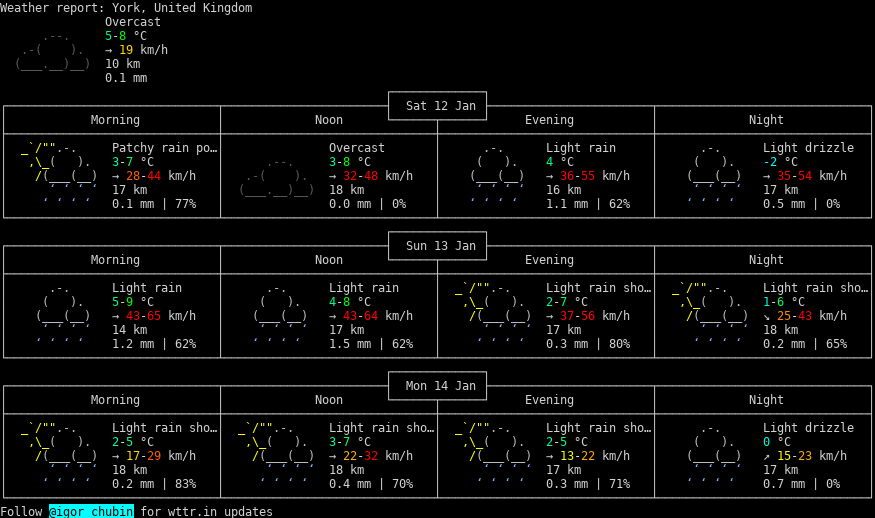
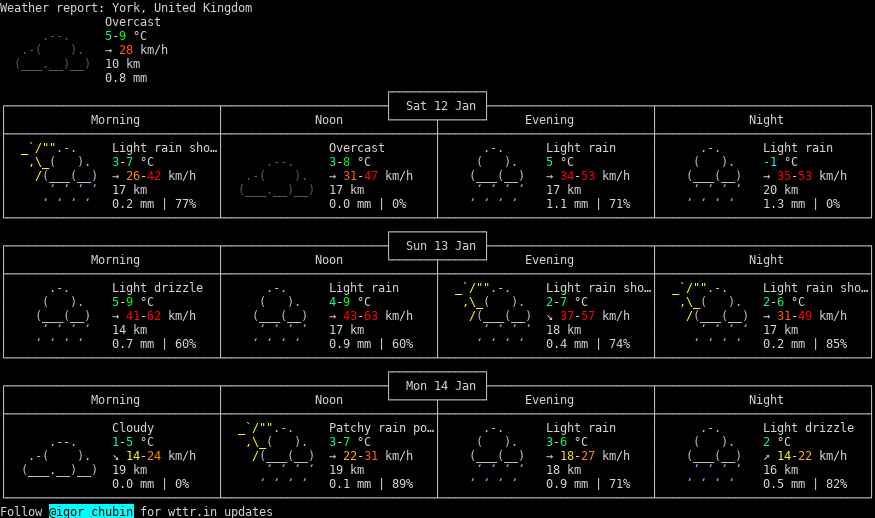
update Today's log:)

diff --git a/README.md b/README.md
@@ -258,3 +258,4 @@ Shell_scripting fun example during Linux OS class with my students
 * 11-01-2019 Fri AM 12:00 GMT   : 7-8°C (Scarborough, United Kingdom)
 * 11-01-2019 Fri PM 12:00 GMT   : -3-1°C ()
 * 12-01-2019 Sat AM 12:00 GMT   : 5-7°C (Scarborough, United Kingdom)
+* 12-01-2019 Sat PM 12:00 GMT   : 5-8°C (Coventry, United Kingdom)

diff --git a/weather.md b/weather.md
@@ -987,3 +987,7 @@
 
 ![](img/12-01-2019.png)
 
+12-01-2019
+
+![](img/12-01-2019.png)
+
